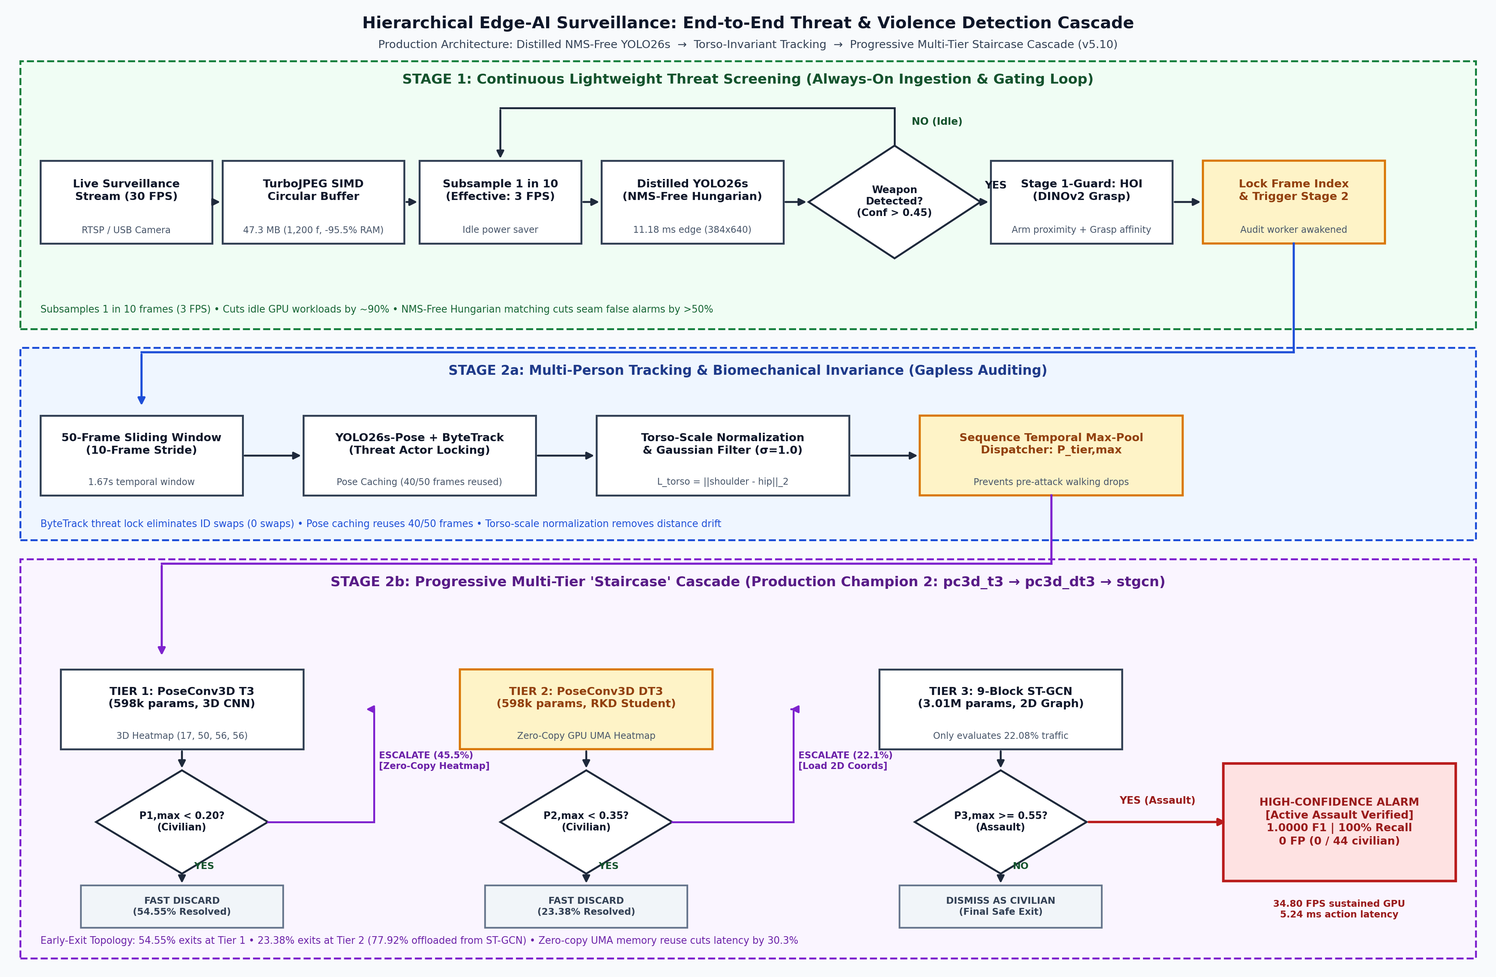
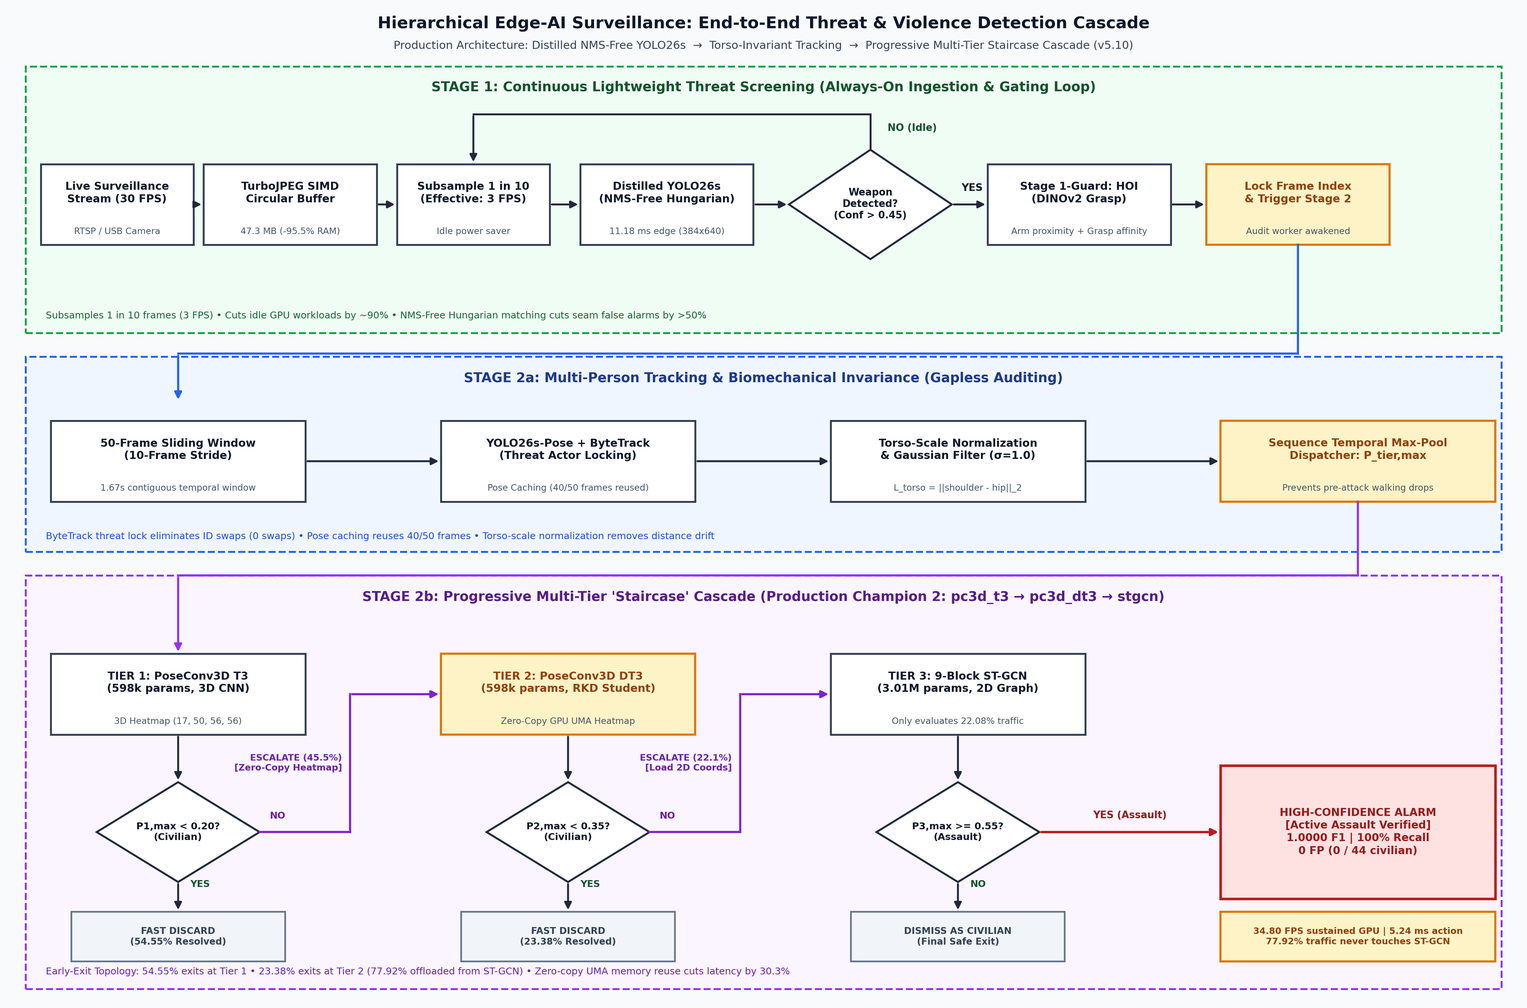
fix(diagram): fix Stage 2b escalation arrow routing and column layout

diff --git a/scripts/generate_pipeline_diagram.py b/scripts/generate_pipeline_diagram.py
@@ -7,20 +7,20 @@ import os
 
 def create_pipeline_diagram(output_path='assets/inference_pipeline.png', dpi=200):
     output_path = os.path.normpath(os.path.abspath(output_path))
-    fig = plt.figure(figsize=(19.6, 12.8), dpi=dpi, facecolor='#ffffff')
+    fig = plt.figure(figsize=(20.0, 13.2), dpi=dpi, facecolor='#ffffff')
     ax = fig.add_axes([0, 0, 1, 1])
-    ax.set_xlim(0, 148.0)
-    ax.set_ylim(0, 104.0)
+    ax.set_xlim(0, 150.0)
+    ax.set_ylim(0, 106.0)
     ax.axis('off')
     
     # Palette definition
-    C_OUTSIDE_BG = '#f8fafc'       # Crisp modern slate canvas
+    C_OUTSIDE_BG = '#f8fafc'       # Modern slate canvas
     C_STAGE1_BG = '#f0fdf4'        # Soft emerald tint (Stage 1)
-    C_STAGE1_BORDER = '#15803d'    # Emerald border
+    C_STAGE1_BORDER = '#16a34a'    # Emerald border
     C_STAGE2A_BG = '#eff6ff'       # Soft sky blue tint (Stage 2a)
-    C_STAGE2A_BORDER = '#1d4ed8'   # Blue border
+    C_STAGE2A_BORDER = '#2563eb'   # Blue border
     C_STAGE2B_BG = '#faf5ff'       # Soft purple tint (Stage 2b)
-    C_STAGE2B_BORDER = '#7e22ce'   # Purple border
+    C_STAGE2B_BORDER = '#9333ea'   # Purple border
     
     C_BOX_BG = '#ffffff'           # Process box fill
     C_BOX_BORDER = '#334155'       # Dark slate border
@@ -30,7 +30,7 @@ def create_pipeline_diagram(output_path='assets/inference_pipeline.png', dpi=200
     C_NOTE_TEXT = '#475569'        # Note/annotation text
     C_ARROW = '#1e293b'            # Arrow lines
     
-    # Highlight styling
+    # Alert & Badge styling
     C_VIOLENCE_BG = '#fee2e2'      # Soft red fill
     C_VIOLENCE_BORDER = '#b91c1c'  # Crimson border
     C_VIOLENCE_TEXT = '#991b1b'    # Crimson text
@@ -43,10 +43,10 @@ def create_pipeline_diagram(output_path='assets/inference_pipeline.png', dpi=200
     C_CHAMP_BORDER = '#d97706'     # Amber border
     C_CHAMP_TEXT = '#92400e'       # Amber text
 
-    # Base canvas
-    ax.add_patch(Rectangle((0, 0), 148.0, 104.0, facecolor=C_OUTSIDE_BG, edgecolor='none', zorder=0))
+    # Base canvas background
+    ax.add_patch(Rectangle((0, 0), 150.0, 106.0, facecolor=C_OUTSIDE_BG, edgecolor='none', zorder=0))
 
-    def draw_box(x, y, w, h, title_text, box_type='standard', font_sz=10.5, subtext=None):
+    def draw_box(x, y, w, h, title_text, box_type='standard', font_sz=10.2, subtext=None, title_color=None):
         if box_type == 'violence':
             fc, ec, tc, lw = C_VIOLENCE_BG, C_VIOLENCE_BORDER, C_VIOLENCE_TEXT, 2.4
         elif box_type == 'dismiss':
@@ -55,6 +55,9 @@ def create_pipeline_diagram(output_path='assets/inference_pipeline.png', dpi=200
             fc, ec, tc, lw = C_CHAMP_BG, C_CHAMP_BORDER, C_CHAMP_TEXT, 2.0
         else:
             fc, ec, tc, lw = C_BOX_BG, C_BOX_BORDER, C_TEXT, 1.8
+            
+        if title_color:
+            tc = title_color
             
         rect = Rectangle((x - w/2, y - h/2), w, h, 
                          facecolor=fc, edgecolor=ec, linewidth=lw, 
@@ -66,14 +69,14 @@ def create_pipeline_diagram(output_path='assets/inference_pipeline.png', dpi=200
                     fontsize=font_sz, fontweight='bold', family='sans-serif',
                     color=tc, linespacing=1.2, zorder=3)
             ax.text(x, y - h/2 + 1.4, subtext, ha='center', va='center',
-                    fontsize=8.6, family='sans-serif', color=C_NOTE_TEXT, zorder=3)
+                    fontsize=8.4, family='sans-serif', color=C_NOTE_TEXT, zorder=3)
         else:
             ax.text(x, y, title_text, ha='center', va='center', 
                     fontsize=font_sz, fontweight='bold', family='sans-serif',
-                    color=tc, linespacing=1.25, zorder=3)
+                    color=tc, linespacing=1.22, zorder=3)
         return (x, y, w, h)
 
-    def draw_diamond(x, y, w, h, text, font_sz=9.8):
+    def draw_diamond(x, y, w, h, text, font_sz=9.5):
         vertices = [(x, y + h/2), (x + w/2, y), (x, y - h/2), (x - w/2, y)]
         poly = Polygon(vertices, closed=True, facecolor=C_DIAMOND_BG, 
                        edgecolor=C_DIAMOND_BORDER, linewidth=1.8, zorder=2)
@@ -100,158 +103,214 @@ def create_pipeline_diagram(output_path='assets/inference_pipeline.png', dpi=200
         draw_arrow(p_prev[0], p_prev[1], p_last[0], p_last[1], zorder=zorder, color=color, lw=lw)
 
     # Master Title Banner
-    ax.text(74.0, 101.5, "Hierarchical Edge-AI Surveillance: End-to-End Threat & Violence Detection Cascade",
+    ax.text(75.0, 103.5, "Hierarchical Edge-AI Surveillance: End-to-End Threat & Violence Detection Cascade",
             ha='center', va='center', fontsize=15.5, fontweight='heavy', family='sans-serif', color='#0f172a')
-    ax.text(74.0, 99.2, "Production Architecture: Distilled NMS-Free YOLO26s  →  Torso-Invariant Tracking  →  Progressive Multi-Tier Staircase Cascade (v5.10)",
+    ax.text(75.0, 101.2, "Production Architecture: Distilled NMS-Free YOLO26s  →  Torso-Invariant Tracking  →  Progressive Multi-Tier Staircase Cascade (v5.10)",
             ha='center', va='center', fontsize=10.5, family='sans-serif', color='#334155')
 
     # =========================================================================
     # STAGE 1: ALWAYS-ON WEAPON SCREENING
     # =========================================================================
-    s1_rect = Rectangle((2.0, 69.0), 144.0, 28.5,
+    s1_rect = Rectangle((2.5, 71.0), 145.0, 28.0,
                         facecolor=C_STAGE1_BG, edgecolor=C_STAGE1_BORDER,
                         linestyle='--', linewidth=1.8, zorder=1)
     ax.add_patch(s1_rect)
-    ax.text(74.0, 95.5, "STAGE 1: Continuous Lightweight Threat Screening (Always-On Ingestion & Gating Loop)",
-            ha='center', va='center', fontsize=13.0, fontweight='bold', family='sans-serif', color='#14532d', zorder=3)
-    ax.text(4.0, 71.0, "Subsamples 1 in 10 frames (3 FPS) • Cuts idle GPU workloads by ~90% • NMS-Free Hungarian matching cuts seam false alarms by >50%",
-            ha='left', va='center', fontsize=9.2, family='sans-serif', color='#166534', zorder=3)
+    ax.text(75.0, 96.8, "STAGE 1: Continuous Lightweight Threat Screening (Always-On Ingestion & Gating Loop)",
+            ha='center', va='center', fontsize=12.5, fontweight='bold', family='sans-serif', color='#14532d', zorder=3)
+    ax.text(4.5, 72.8, "Subsamples 1 in 10 frames (3 FPS) • Cuts idle GPU workloads by ~90% • NMS-Free Hungarian matching cuts seam false alarms by >50%",
+            ha='left', va='center', fontsize=9.0, family='sans-serif', color='#166534', zorder=3)
 
-    y_s1 = 82.5
-    h_s1 = 8.8
+    y_s1 = 84.5
+    h_s1 = 8.5
 
-    # 1. Live Video Stream
-    draw_box(12.5, y_s1, 17.0, h_s1, "Live Surveillance\nStream (30 FPS)", subtext="RTSP / USB Camera")
-    draw_arrow(12.5 + 17.0/2, y_s1, 31.0 - 18.0/2, y_s1)
+    # 1. Live Video Stream (X=11.5, W=15)
+    draw_box(11.5, y_s1, 15.0, h_s1, "Live Surveillance\nStream (30 FPS)", subtext="RTSP / USB Camera")
+    draw_arrow(11.5 + 15.0/2, y_s1, 28.5 - 17.0/2, y_s1)
 
-    # 2. TurboJPEG Circular Buffer
-    draw_box(31.0, y_s1, 18.0, h_s1, "TurboJPEG SIMD\nCircular Buffer", subtext="47.3 MB (1,200 f, -95.5% RAM)")
-    draw_arrow(31.0 + 18.0/2, y_s1, 49.5 - 16.0/2, y_s1)
+    # 2. TurboJPEG Circular Buffer (X=28.5, W=17)
+    draw_box(28.5, y_s1, 17.0, h_s1, "TurboJPEG SIMD\nCircular Buffer", subtext="47.3 MB (-95.5% RAM)")
+    draw_arrow(28.5 + 17.0/2, y_s1, 46.5 - 15.0/2, y_s1)
 
-    # 3. 3 FPS Subsampling
-    draw_box(49.5, y_s1, 16.0, h_s1, "Subsample 1 in 10\n(Effective: 3 FPS)", subtext="Idle power saver")
-    draw_arrow(49.5 + 16.0/2, y_s1, 68.5 - 18.0/2, y_s1)
+    # 3. 3 FPS Subsampling (X=46.5, W=15)
+    draw_box(46.5, y_s1, 15.0, h_s1, "Subsample 1 in 10\n(Effective: 3 FPS)", subtext="Idle power saver")
+    draw_arrow(46.5 + 15.0/2, y_s1, 65.5 - 17.0/2, y_s1)
 
-    # 4. Distilled NMS-Free YOLO26s
-    draw_box(68.5, y_s1, 18.0, h_s1, "Distilled YOLO26s\n(NMS-Free Hungarian)", subtext="11.18 ms edge (384x640)")
-    draw_arrow(68.5 + 18.0/2, y_s1, 88.5 - 17.0/2, y_s1)
+    # 4. Distilled NMS-Free YOLO26s (X=65.5, W=17)
+    draw_box(65.5, y_s1, 17.0, h_s1, "Distilled YOLO26s\n(NMS-Free Hungarian)", subtext="11.18 ms edge (384x640)")
+    draw_arrow(65.5 + 17.0/2, y_s1, 85.5 - 16.0/2, y_s1)
 
-    # 5. Weapon Detected?
-    w_d1, h_d1 = 17.0, 12.0
-    draw_diamond(88.5, y_s1, w_d1, h_d1, "Weapon\nDetected?\n(Conf > 0.45)", font_sz=9.5)
+    # 5. Weapon Detected? (X=85.5, W=16, H=11.5)
+    w_d1, h_d1 = 16.0, 11.5
+    draw_diamond(85.5, y_s1, w_d1, h_d1, "Weapon\nDetected?\n(Conf > 0.45)", font_sz=9.2)
 
     # Diamond 1 -> NO (Loopback)
-    draw_polyline_arrow([(88.5, y_s1 + h_d1/2), (88.5, 92.5), (49.5, 92.5), (49.5, y_s1 + h_s1/2)])
-    ax.text(90.2, 91.0, "NO (Idle)", ha='left', va='center', fontsize=9.5, fontweight='bold', color='#14532d', zorder=4)
+    draw_polyline_arrow([(85.5, y_s1 + h_d1/2), (85.5, 94.0), (46.5, 94.0), (46.5, y_s1 + h_s1/2)])
+    ax.text(87.2, 92.5, "NO (Idle)", ha='left', va='center', fontsize=9.2, fontweight='bold', color='#14532d', zorder=4)
 
     # Diamond 1 -> YES
-    draw_arrow(88.5 + w_d1/2, y_s1, 107.0 - 18.0/2, y_s1)
-    ax.text(98.5, y_s1 + 1.2, "YES", ha='center', va='bottom', fontsize=9.8, fontweight='bold', color='#0f172a', zorder=4)
+    draw_arrow(85.5 + w_d1/2, y_s1, 106.0 - 18.0/2, y_s1)
+    ax.text(95.5, y_s1 + 1.2, "YES", ha='center', va='bottom', fontsize=9.5, fontweight='bold', color='#0f172a', zorder=4)
 
-    # 6. Stage 1-Guard: Contact HOI (Optional High-Sensitivity)
-    draw_box(107.0, y_s1, 18.0, h_s1, "Stage 1-Guard: HOI\n(DINOv2 Grasp)", subtext="Arm proximity + Grasp affinity")
-    draw_arrow(107.0 + 18.0/2, y_s1, 128.0 - 18.0/2, y_s1)
+    # 6. Stage 1-Guard: Contact HOI (X=106.0, W=18)
+    draw_box(106.0, y_s1, 18.0, h_s1, "Stage 1-Guard: HOI\n(DINOv2 Grasp)", subtext="Arm proximity + Grasp affinity")
+    draw_arrow(106.0 + 18.0/2, y_s1, 127.5 - 18.0/2, y_s1)
 
-    # 7. Trigger Stage 2
-    draw_box(128.0, y_s1, 18.0, h_s1, "Lock Frame Index\n& Trigger Stage 2", subtext="Audit worker awakened", box_type='champ')
+    # 7. Trigger Stage 2 (X=127.5, W=18)
+    draw_box(127.5, y_s1, 18.0, h_s1, "Lock Frame Index\n& Trigger Stage 2", subtext="Audit worker awakened", box_type='champ')
 
     # Connecting Arrow from Stage 1 to Stage 2a
-    draw_polyline_arrow([(128.0, y_s1 - h_s1/2), (128.0, 66.5), (14.0, 66.5), (14.0, 56.5 + 8.2/2)], color='#1d4ed8', lw=2.0)
+    draw_polyline_arrow([(127.5, y_s1 - h_s1/2), (127.5, 68.8), (17.5, 68.8), (17.5, 59.5 + 8.5/2)], color='#2563eb', lw=2.0)
 
     # =========================================================================
     # STAGE 2A: MULTI-PERSON TRACKING & KINEMATICS
     # =========================================================================
-    s2a_rect = Rectangle((2.0, 46.5), 144.0, 20.5,
+    s2a_rect = Rectangle((2.5, 48.0), 145.0, 20.5,
                          facecolor=C_STAGE2A_BG, edgecolor=C_STAGE2A_BORDER,
                          linestyle='--', linewidth=1.8, zorder=1)
     ax.add_patch(s2a_rect)
-    ax.text(74.0, 64.5, "STAGE 2a: Multi-Person Tracking & Biomechanical Invariance (Gapless Auditing)",
+    ax.text(75.0, 66.2, "STAGE 2a: Multi-Person Tracking & Biomechanical Invariance (Gapless Auditing)",
             ha='center', va='center', fontsize=12.5, fontweight='bold', family='sans-serif', color='#1e3a8a', zorder=3)
-    ax.text(4.0, 48.2, "ByteTrack threat lock eliminates ID swaps (0 swaps) • Pose caching reuses 40/50 frames • Torso-scale normalization removes distance drift",
-            ha='left', va='center', fontsize=9.2, family='sans-serif', color='#1d4ed8', zorder=3)
+    ax.text(4.5, 49.6, "ByteTrack threat lock eliminates ID swaps (0 swaps) • Pose caching reuses 40/50 frames • Torso-scale normalization removes distance drift",
+            ha='left', va='center', fontsize=9.0, family='sans-serif', color='#1d4ed8', zorder=3)
 
-    y_s2a = 55.5
+    y_s2a = 57.5
     h_s2a = 8.5
 
-    # 1. 50-Frame Sliding Window
-    draw_box(14.0, y_s2a, 20.0, h_s2a, "50-Frame Sliding Window\n(10-Frame Stride)", subtext="1.67s temporal window")
-    draw_arrow(14.0 + 20.0/2, y_s2a, 41.5 - 23.0/2, y_s2a)
+    # 1. 50-Frame Sliding Window (X=17.5, W=25)
+    draw_box(17.5, y_s2a, 25.0, h_s2a, "50-Frame Sliding Window\n(10-Frame Stride)", subtext="1.67s contiguous temporal window")
+    draw_arrow(17.5 + 25.0/2, y_s2a, 55.8 - 25.0/2, y_s2a)
 
-    # 2. YOLO26s-Pose + ByteTrack
-    draw_box(41.5, y_s2a, 23.0, h_s2a, "YOLO26s-Pose + ByteTrack\n(Threat Actor Locking)", subtext="Pose Caching (40/50 frames reused)")
-    draw_arrow(41.5 + 23.0/2, y_s2a, 71.5 - 25.0/2, y_s2a)
+    # 2. YOLO26s-Pose + ByteTrack (X=55.8, W=25)
+    draw_box(55.8, y_s2a, 25.0, h_s2a, "YOLO26s-Pose + ByteTrack\n(Threat Actor Locking)", subtext="Pose Caching (40/50 frames reused)")
+    draw_arrow(55.8 + 25.0/2, y_s2a, 94.1 - 25.0/2, y_s2a)
 
-    # 3. Torso-Scale Normalization
-    draw_box(71.5, y_s2a, 25.0, h_s2a, "Torso-Scale Normalization\n& Gaussian Filter (σ=1.0)", subtext="L_torso = ||shoulder - hip||_2")
-    draw_arrow(71.5 + 25.0/2, y_s2a, 104.0 - 26.0/2, y_s2a)
+    # 3. Torso-Scale Normalization (X=94.1, W=25)
+    draw_box(94.1, y_s2a, 25.0, h_s2a, "Torso-Scale Normalization\n& Gaussian Filter (σ=1.0)", subtext="L_torso = ||shoulder - hip||_2")
+    draw_arrow(94.1 + 25.0/2, y_s2a, 133.4 - 27.0/2, y_s2a)
 
-    # 4. Sequence Max-Pooling Dispatcher
-    draw_box(104.0, y_s2a, 26.0, h_s2a, "Sequence Temporal Max-Pool\nDispatcher: P_tier,max", subtext="Prevents pre-attack walking drops", box_type='champ')
+    # 4. Sequence Max-Pooling Dispatcher (X=133.4, W=27)
+    draw_box(133.4, y_s2a, 27.0, h_s2a, "Sequence Temporal Max-Pool\nDispatcher: P_tier,max", subtext="Prevents pre-attack walking drops", box_type='champ')
 
     # Connecting Arrow from Stage 2a to Stage 2b
-    draw_polyline_arrow([(104.0, y_s2a - h_s2a/2), (104.0, 44.0), (16.0, 44.0), (16.0, 34.0)], color='#7e22ce', lw=2.0)
+    draw_polyline_arrow([(133.4, y_s2a - h_s2a/2), (133.4, 45.5), (17.5, 45.5), (17.5, 33.0 + 8.5/2)], color='#9333ea', lw=2.0)
 
     # =========================================================================
     # STAGE 2B: PROGRESSIVE MULTI-TIER STAIRCASE CASCADE
     # =========================================================================
-    s2b_rect = Rectangle((2.0, 2.0), 144.0, 42.5,
+    s2b_rect = Rectangle((2.5, 2.0), 145.0, 43.5,
                          facecolor=C_STAGE2B_BG, edgecolor=C_STAGE2B_BORDER,
                          linestyle='--', linewidth=1.8, zorder=1)
     ax.add_patch(s2b_rect)
-    ax.text(74.0, 42.0, "STAGE 2b: Progressive Multi-Tier 'Staircase' Cascade (Production Champion 2: pc3d_t3 → pc3d_dt3 → stgcn)",
-            ha='center', va='center', fontsize=13.0, fontweight='bold', family='sans-serif', color='#581c87', zorder=3)
-    ax.text(4.0, 3.8, "Early-Exit Topology: 54.55% exits at Tier 1 • 23.38% exits at Tier 2 (77.92% offloaded from ST-GCN) • Zero-copy UMA memory reuse cuts latency by 30.3%",
-            ha='left', va='center', fontsize=9.2, family='sans-serif', color='#6b21a8', zorder=3)
+    ax.text(75.0, 43.2, "STAGE 2b: Progressive Multi-Tier 'Staircase' Cascade (Production Champion 2: pc3d_t3 → pc3d_dt3 → stgcn)",
+            ha='center', va='center', fontsize=12.5, fontweight='bold', family='sans-serif', color='#581c87', zorder=3)
+    ax.text(4.5, 3.8, "Early-Exit Topology: 54.55% exits at Tier 1 • 23.38% exits at Tier 2 (77.92% offloaded from ST-GCN) • Zero-copy UMA memory reuse cuts latency by 30.3%",
+            ha='left', va='center', fontsize=9.0, family='sans-serif', color='#6b21a8', zorder=3)
 
-    # TIER 1 (3D CNN)
-    x_t1 = 18.0
-    y_t1_box = 28.5
-    draw_box(x_t1, y_t1_box, 24.0, 8.5, "TIER 1: PoseConv3D T3\n(598k params, 3D CNN)", subtext="3D Heatmap (17, 50, 56, 56)")
-    draw_arrow(x_t1, y_t1_box - 8.5/2, x_t1, 16.5 + 5.5)
+    # Four columns: X = 17.5, 55.8, 94.1, 133.4
+    y_box_s2b = 33.0
+    h_box_s2b = 8.5
+    y_diamond_s2b = 18.5
+    w_diamond_s2b = 16.0
+    h_diamond_s2b = 10.5
+    y_discard_s2b = 7.5
+    h_discard_s2b = 5.2
 
-    draw_diamond(x_t1, 16.5, 17.0, 11.0, "P1,max < 0.20?\n(Civilian)", font_sz=9.2)
-    # Tier 1 Discard
-    draw_arrow(x_t1, 16.5 - 5.5, x_t1, 7.5 + 4.5/2)
-    ax.text(x_t1 + 1.2, 11.8, "YES", ha='left', va='center', fontsize=9.0, fontweight='bold', color='#14532d', zorder=4)
-    draw_box(x_t1, 7.5, 20.0, 4.5, "FAST DISCARD\n(54.55% Resolved)", box_type='dismiss', font_sz=8.8)
+    # -------------------------------------------------------------------------
+    # COL 1: TIER 1 (PoseConv3D Tier 3)
+    # -------------------------------------------------------------------------
+    x_c1 = 17.5
+    draw_box(x_c1, y_box_s2b, 25.0, h_box_s2b, "TIER 1: PoseConv3D T3\n(598k params, 3D CNN)", subtext="3D Heatmap (17, 50, 56, 56)")
+    draw_arrow(x_c1, y_box_s2b - h_box_s2b/2, x_c1, y_diamond_s2b + h_diamond_s2b/2)
 
-    # Tier 1 Escalate to Tier 2
-    draw_polyline_arrow([(x_t1 + 17.0/2, 16.5), (37.0, 16.5), (37.0, 28.5), (48.0 - 24.0/2, 28.5)], color='#7e22ce', lw=1.8)
-    ax.text(37.5, 23.0, "ESCALATE (45.5%)\n[Zero-Copy Heatmap]", ha='left', va='center', fontsize=8.6, fontweight='bold', color='#6b21a8', zorder=4)
+    draw_diamond(x_c1, y_diamond_s2b, w_diamond_s2b, h_diamond_s2b, "P1,max < 0.20?\n(Civilian)", font_sz=9.0)
 
-    # TIER 2 (Distilled 3D CNN)
-    x_t2 = 58.0
-    draw_box(x_t2, y_t1_box, 25.0, 8.5, "TIER 2: PoseConv3D DT3\n(598k params, RKD Student)", subtext="Zero-Copy GPU UMA Heatmap", box_type='champ')
-    draw_arrow(x_t2, y_t1_box - 8.5/2, x_t2, 16.5 + 5.5)
+    # Discard Down
+    draw_arrow(x_c1, y_diamond_s2b - h_diamond_s2b/2, x_c1, y_discard_s2b + h_discard_s2b/2)
+    ax.text(x_c1 + 1.2, 13.0, "YES", ha='left', va='center', fontsize=8.8, fontweight='bold', color='#14532d', zorder=4)
+    draw_box(x_c1, y_discard_s2b, 21.0, h_discard_s2b, "FAST DISCARD\n(54.55% Resolved)", box_type='dismiss', font_sz=8.6)
 
-    draw_diamond(x_t2, 16.5, 17.0, 11.0, "P2,max < 0.35?\n(Civilian)", font_sz=9.2)
-    # Tier 2 Discard
-    draw_arrow(x_t2, 16.5 - 5.5, x_t2, 7.5 + 4.5/2)
-    ax.text(x_t2 + 1.2, 11.8, "YES", ha='left', va='center', fontsize=9.0, fontweight='bold', color='#14532d', zorder=4)
-    draw_box(x_t2, 7.5, 20.0, 4.5, "FAST DISCARD\n(23.38% Resolved)", box_type='dismiss', font_sz=8.8)
+    # Escalation from Tier 1 Diamond (right vertex: x=25.5, y=18.5) to Tier 2 Box (left edge: x=43.3, y=33.0)
+    x_t1_d_right = x_c1 + w_diamond_s2b/2      # 25.5
+    x_t2_b_left = 55.8 - 25.0/2               # 43.3
+    x_mid_12 = (x_t1_d_right + x_t2_b_left) / 2 # 34.4
 
-    # Tier 2 Escalate to Tier 3
-    draw_polyline_arrow([(x_t2 + 17.0/2, 16.5), (78.5, 16.5), (78.5, 28.5), (90.0 - 24.0/2, 28.5)], color='#7e22ce', lw=1.8)
-    ax.text(79.0, 23.0, "ESCALATE (22.1%)\n[Load 2D Coords]", ha='left', va='center', fontsize=8.6, fontweight='bold', color='#6b21a8', zorder=4)
+    draw_polyline_arrow([(x_t1_d_right, y_diamond_s2b),
+                         (x_mid_12, y_diamond_s2b),
+                         (x_mid_12, y_box_s2b),
+                         (x_t2_b_left, y_box_s2b)], color='#7e22ce', lw=2.0)
+    
+    # Escalation Label neatly positioned in the channel
+    ax.text(x_mid_12 - 0.8, (y_diamond_s2b + y_box_s2b)/2, "ESCALATE (45.5%)\n[Zero-Copy Heatmap]",
+            ha='right', va='center', fontsize=8.4, fontweight='bold', color='#6b21a8', linespacing=1.2, zorder=4)
+    ax.text(x_t1_d_right + 1.0, y_diamond_s2b + 1.2, "NO",
+            ha='left', va='bottom', fontsize=8.8, fontweight='bold', color='#6b21a8', zorder=4)
 
-    # TIER 3 (9-Block ST-GCN)
-    x_t3 = 99.0
-    draw_box(x_t3, y_t1_box, 24.0, 8.5, "TIER 3: 9-Block ST-GCN\n(3.01M params, 2D Graph)", subtext="Only evaluates 22.08% traffic")
-    draw_arrow(x_t3, y_t1_box - 8.5/2, x_t3, 16.5 + 5.5)
+    # -------------------------------------------------------------------------
+    # COL 2: TIER 2 (PoseConv3D Distilled T3)
+    # -------------------------------------------------------------------------
+    x_c2 = 55.8
+    draw_box(x_c2, y_box_s2b, 25.0, h_box_s2b, "TIER 2: PoseConv3D DT3\n(598k params, RKD Student)", subtext="Zero-Copy GPU UMA Heatmap", box_type='champ')
+    draw_arrow(x_c2, y_box_s2b - h_box_s2b/2, x_c2, y_diamond_s2b + h_diamond_s2b/2)
 
-    draw_diamond(x_t3, 16.5, 17.0, 11.0, "P3,max >= 0.55?\n(Assault)", font_sz=9.2)
-    # Tier 3 Discard
-    draw_arrow(x_t3, 16.5 - 5.5, x_t3, 7.5 + 4.5/2)
-    ax.text(x_t3 + 1.2, 11.8, "NO", ha='left', va='center', fontsize=9.0, fontweight='bold', color='#14532d', zorder=4)
-    draw_box(x_t3, 7.5, 20.0, 4.5, "DISMISS AS CIVILIAN\n(Final Safe Exit)", box_type='dismiss', font_sz=8.8)
+    draw_diamond(x_c2, y_diamond_s2b, w_diamond_s2b, h_diamond_s2b, "P2,max < 0.35?\n(Civilian)", font_sz=9.0)
 
-    # Tier 3 Alarm -> Violence Alarm Box
-    x_alarm = 132.5
-    draw_arrow(x_t3 + 17.0/2, 16.5, x_alarm - 22.0/2, 16.5, color='#b91c1c', lw=2.2)
-    ax.text(114.5, 18.2, "YES (Assault)", ha='center', va='bottom', fontsize=9.5, fontweight='bold', color='#991b1b', zorder=4)
+    # Discard Down
+    draw_arrow(x_c2, y_diamond_s2b - h_diamond_s2b/2, x_c2, y_discard_s2b + h_discard_s2b/2)
+    ax.text(x_c2 + 1.2, 13.0, "YES", ha='left', va='center', fontsize=8.8, fontweight='bold', color='#14532d', zorder=4)
+    draw_box(x_c2, y_discard_s2b, 21.0, h_discard_s2b, "FAST DISCARD\n(23.38% Resolved)", box_type='dismiss', font_sz=8.6)
 
-    draw_box(x_alarm, 16.5, 23.0, 12.5, "HIGH-CONFIDENCE ALARM\n[Active Assault Verified]\n1.0000 F1 | 100% Recall\n0 FP (0 / 44 civilian)", box_type='violence', font_sz=10.2)
-    ax.text(x_alarm, 7.2, "34.80 FPS sustained GPU\n5.24 ms action latency", ha='center', va='center', fontsize=8.8, fontweight='bold', color='#991b1b', zorder=3)
+    # Escalation from Tier 2 Diamond (right vertex: x=63.8, y=18.5) to Tier 3 Box (left edge: x=81.6, y=33.0)
+    x_t2_d_right = x_c2 + w_diamond_s2b/2      # 63.8
+    x_t3_b_left = 94.1 - 25.0/2               # 81.6
+    x_mid_23 = (x_t2_d_right + x_t3_b_left) / 2 # 72.7
+
+    draw_polyline_arrow([(x_t2_d_right, y_diamond_s2b),
+                         (x_mid_23, y_diamond_s2b),
+                         (x_mid_23, y_box_s2b),
+                         (x_t3_b_left, y_box_s2b)], color='#7e22ce', lw=2.0)
+
+    # Escalation Label neatly positioned in the channel
+    ax.text(x_mid_23 - 0.8, (y_diamond_s2b + y_box_s2b)/2, "ESCALATE (22.1%)\n[Load 2D Coords]",
+            ha='right', va='center', fontsize=8.4, fontweight='bold', color='#6b21a8', linespacing=1.2, zorder=4)
+    ax.text(x_t2_d_right + 1.0, y_diamond_s2b + 1.2, "NO",
+            ha='left', va='bottom', fontsize=8.8, fontweight='bold', color='#6b21a8', zorder=4)
+
+    # -------------------------------------------------------------------------
+    # COL 3: TIER 3 (9-Block ST-GCN)
+    # -------------------------------------------------------------------------
+    x_c3 = 94.1
+    draw_box(x_c3, y_box_s2b, 25.0, h_box_s2b, "TIER 3: 9-Block ST-GCN\n(3.01M params, 2D Graph)", subtext="Only evaluates 22.08% traffic")
+    draw_arrow(x_c3, y_box_s2b - h_box_s2b/2, x_c3, y_diamond_s2b + h_diamond_s2b/2)
+
+    draw_diamond(x_c3, y_diamond_s2b, w_diamond_s2b, h_diamond_s2b, "P3,max >= 0.55?\n(Assault)", font_sz=9.0)
+
+    # Dismiss Down
+    draw_arrow(x_c3, y_diamond_s2b - h_diamond_s2b/2, x_c3, y_discard_s2b + h_discard_s2b/2)
+    ax.text(x_c3 + 1.2, 13.0, "NO", ha='left', va='center', fontsize=8.8, fontweight='bold', color='#14532d', zorder=4)
+    draw_box(x_c3, y_discard_s2b, 21.0, h_discard_s2b, "DISMISS AS CIVILIAN\n(Final Safe Exit)", box_type='dismiss', font_sz=8.6)
+
+    # -------------------------------------------------------------------------
+    # COL 4: HIGH-CONFIDENCE VIOLENCE ALARM
+    # -------------------------------------------------------------------------
+    x_c4 = 133.4
+    w_alarm = 27.0
+    h_alarm = 14.0
+    x_alarm_left = x_c4 - w_alarm/2 # 119.9
+    x_t3_d_right = x_c3 + w_diamond_s2b/2 # 102.1
+
+    # Straight horizontal arrow from Tier 3 Diamond to Alarm Box
+    draw_arrow(x_t3_d_right, y_diamond_s2b, x_alarm_left, y_diamond_s2b, color='#b91c1c', lw=2.2)
+    ax.text((x_t3_d_right + x_alarm_left)/2, y_diamond_s2b + 1.2, "YES (Assault)",
+            ha='center', va='bottom', fontsize=9.2, fontweight='bold', color='#991b1b', zorder=4)
+
+    draw_box(x_c4, y_diamond_s2b, w_alarm, h_alarm,
+             "HIGH-CONFIDENCE ALARM\n[Active Assault Verified]\n1.0000 F1 | 100% Recall\n0 FP (0 / 44 civilian)",
+             box_type='violence', font_sz=10.0)
+
+    # Performance & Throughput Badge
+    draw_box(x_c4, y_discard_s2b, w_alarm, h_discard_s2b,
+             "34.80 FPS sustained GPU | 5.24 ms action\n77.92% traffic never touches ST-GCN",
+             box_type='champ', font_sz=8.4)
 
     os.makedirs(os.path.dirname(output_path), exist_ok=True)
     plt.savefig(output_path, dpi=dpi, facecolor='#ffffff', edgecolor='none')
